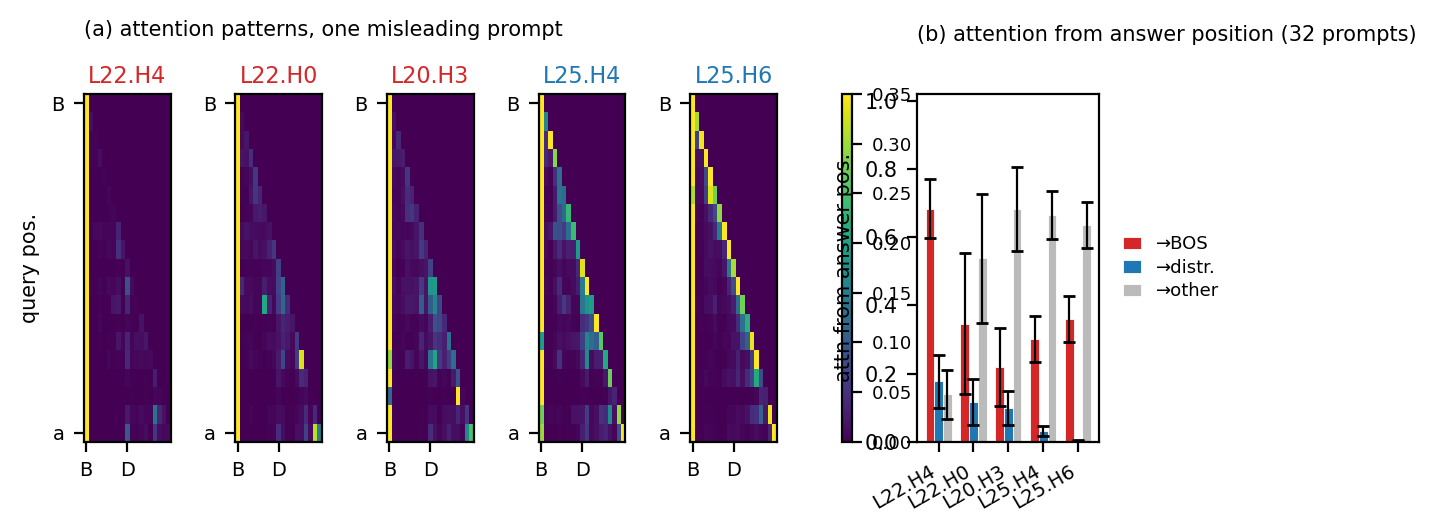
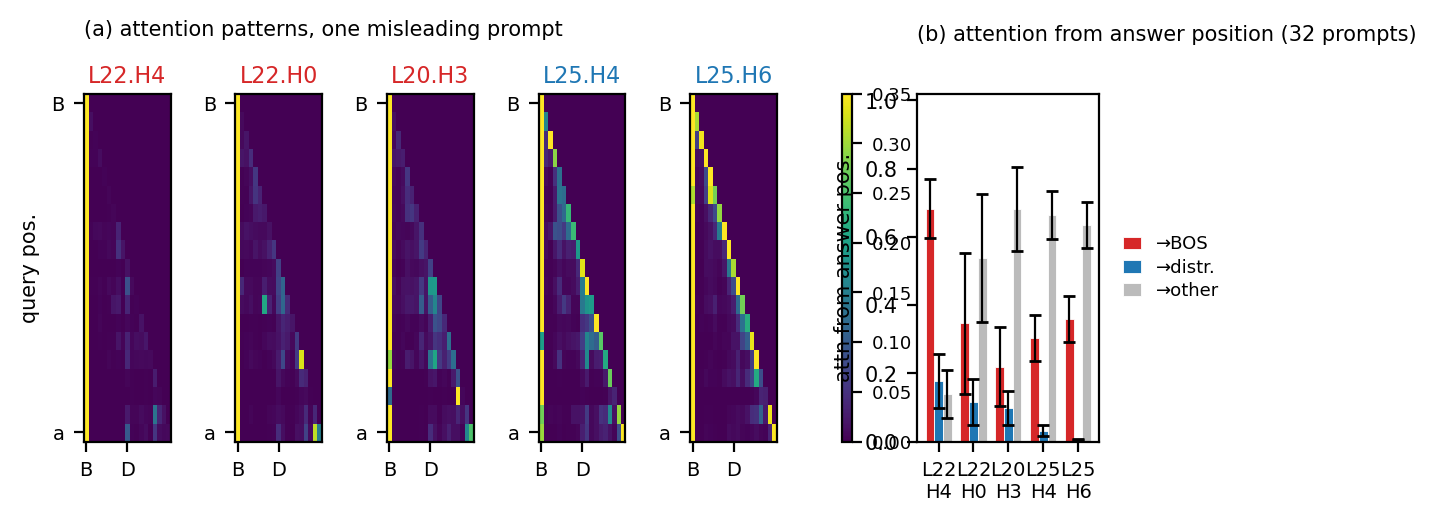
fig3 panel b: two-line tick labels, no more collisions

diff --git a/scripts/make_fig3_v2.py b/scripts/make_fig3_v2.py
@@ -69,7 +69,7 @@ for j, (dest, c) in enumerate(zip(dests, colors)):
             label={"bos": "→BOS", "distractor": "→distr.", "other": "→other"}[dest],
             error_kw=dict(lw=0.8, capsize=2), edgecolor="white", lw=0.3)
 axb.set_xticks(x)
-axb.set_xticklabels(HEADS, fontsize=7, rotation=30, ha="right")
+axb.set_xticklabels([h.replace(".", "\n") for h in HEADS], fontsize=7)
 axb.set_ylabel("attn from answer pos.", fontsize=7.5)
 axb.set_title(f"(b) attention from answer position ({N} prompts)",
               fontsize=7.5, loc="left", pad=19)
